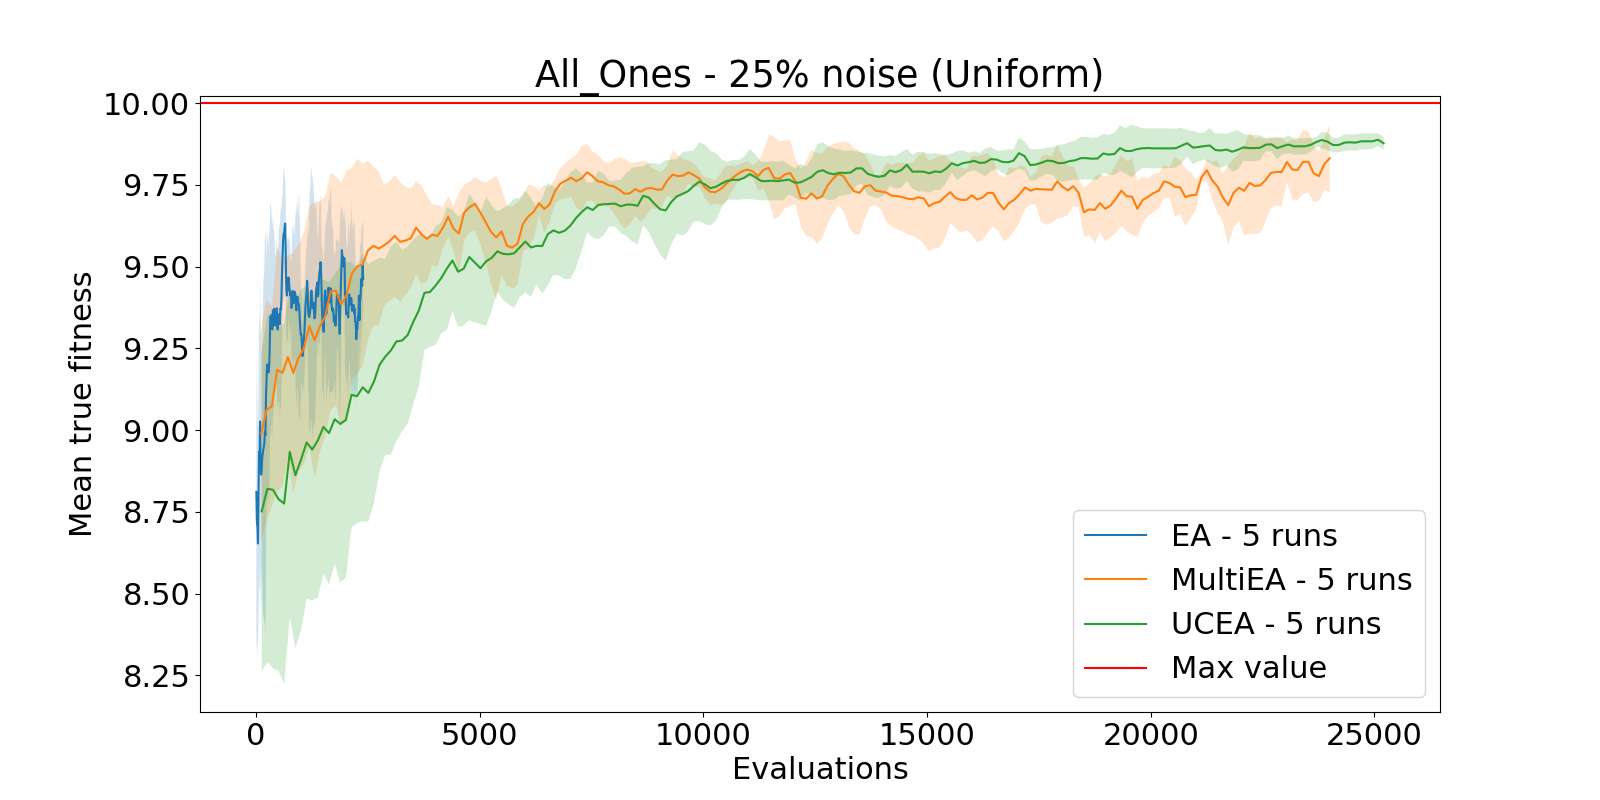
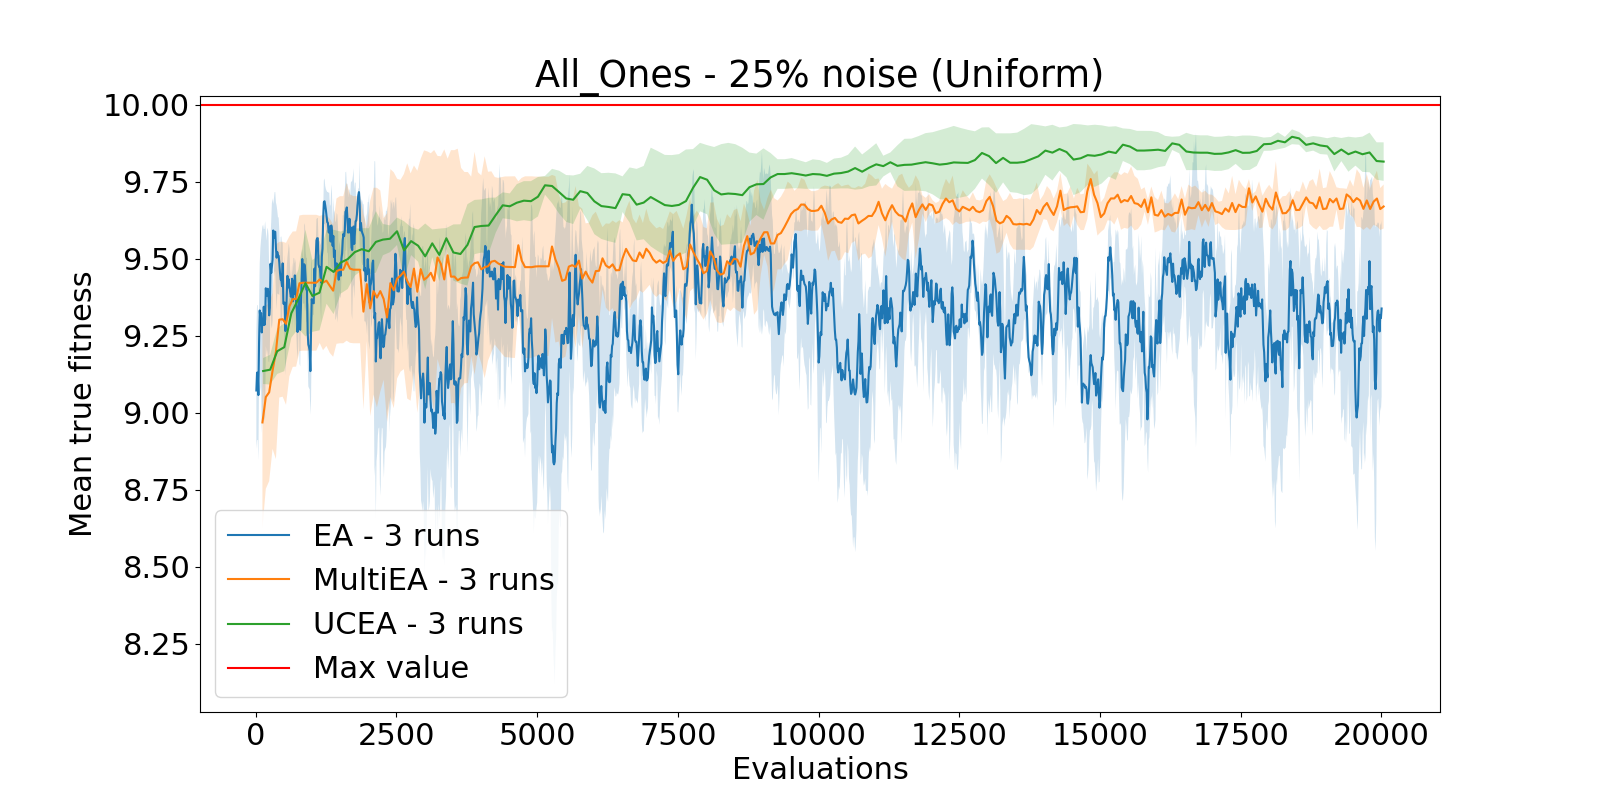
bug fix

diff --git a/src/algos/ucea.py b/src/algos/ucea.py
@@ -11,10 +11,11 @@ class UCEA(EA):
         return s      
     
     def step(self):
-        gen_evals = 0
-        self.update()
-        self.evaluate_children()
+        if self.gen > 0:
+            self.update()
+        gen_evals = self.evaluate_children()
         while gen_evals < self.args["max_eval"]:
+            self.pop.update()
             l, h = self.pop.get_limits()
             A, B = self.pop[l[0]], self.pop[h[0]]
             d = self.pop.dist(A, B)
@@ -23,9 +24,9 @@ class UCEA(EA):
 
             A, B = self.server.batch_evaluate([A, B])
             gen_evals += 2
-            A.lifetime += 2
-            B.lifetime += 2
-            self.pop.sorted=False
+            for i in self.pop:
+                i.lifetime += 2
         self.pop.sort()
         self.total_evals += gen_evals
+        self.gen += 1
         return self

diff --git a/src/algos/population.py b/src/algos/population.py
@@ -24,8 +24,8 @@ class Population:
         
     def sort(self):
         if not self.sorted:
-            f = np.argsort([-i.fitness for i in self.agents])
-            self.agents = self.agents[f]
+            f = np.argsort([-i.fitness for i in self.agents]) # highest fitness first
+            self.agents = self.agents[f] # highest fitness first
             self.sorted = True
         return self
         
@@ -37,7 +37,7 @@ class Population:
         t = ind.lifetime
         d = self.args["delta"]
         n = len(self.agents)
-        ind.beta = np.sqrt(
+        ind.beta = self.args["scaling_factor"] * np.sqrt(
             np.log(1.25 * n * (t ** 4) / d) / (2.0 * u)
         )
         return ind

diff --git a/src/algos/ea.py b/src/algos/ea.py
@@ -70,18 +70,16 @@ class EA:
     
     def run(self, gens, name=""):
         max_evals = 20000
-        pbar = tqdm(range(max_evals))
+        pbar = tqdm(total=max_evals)
         pbar.set_description(name)
         X, Y = [], []
         while self.total_evals < max_evals:
             self.step()
             f = np.max([np.mean(i.true_fitnesses) for i in self])
-            pbar.n = self.total_evals
-            pbar.refresh()
+            pbar.update(self.total_evals - pbar.n)
             X.append(self.total_evals)
             Y.append(f)
-        pbar.n = self.gen
-        pbar.refresh()
+        pbar.close()
         return X, Y
 
 class MultiEA(EA):

diff --git a/src/run.py b/src/run.py
@@ -31,7 +31,8 @@ def run_xp(basepb,
         "n_elites":6,
         "n_genes":basepb.n_genes, 
         "delta":0.1,
-        "epsilon":0.1,
+        "scaling_factor":max_fit,
+        "epsilon":1,
         "mut_size":0.3,
         "max_eval":120,
         "n_resampling":10,
